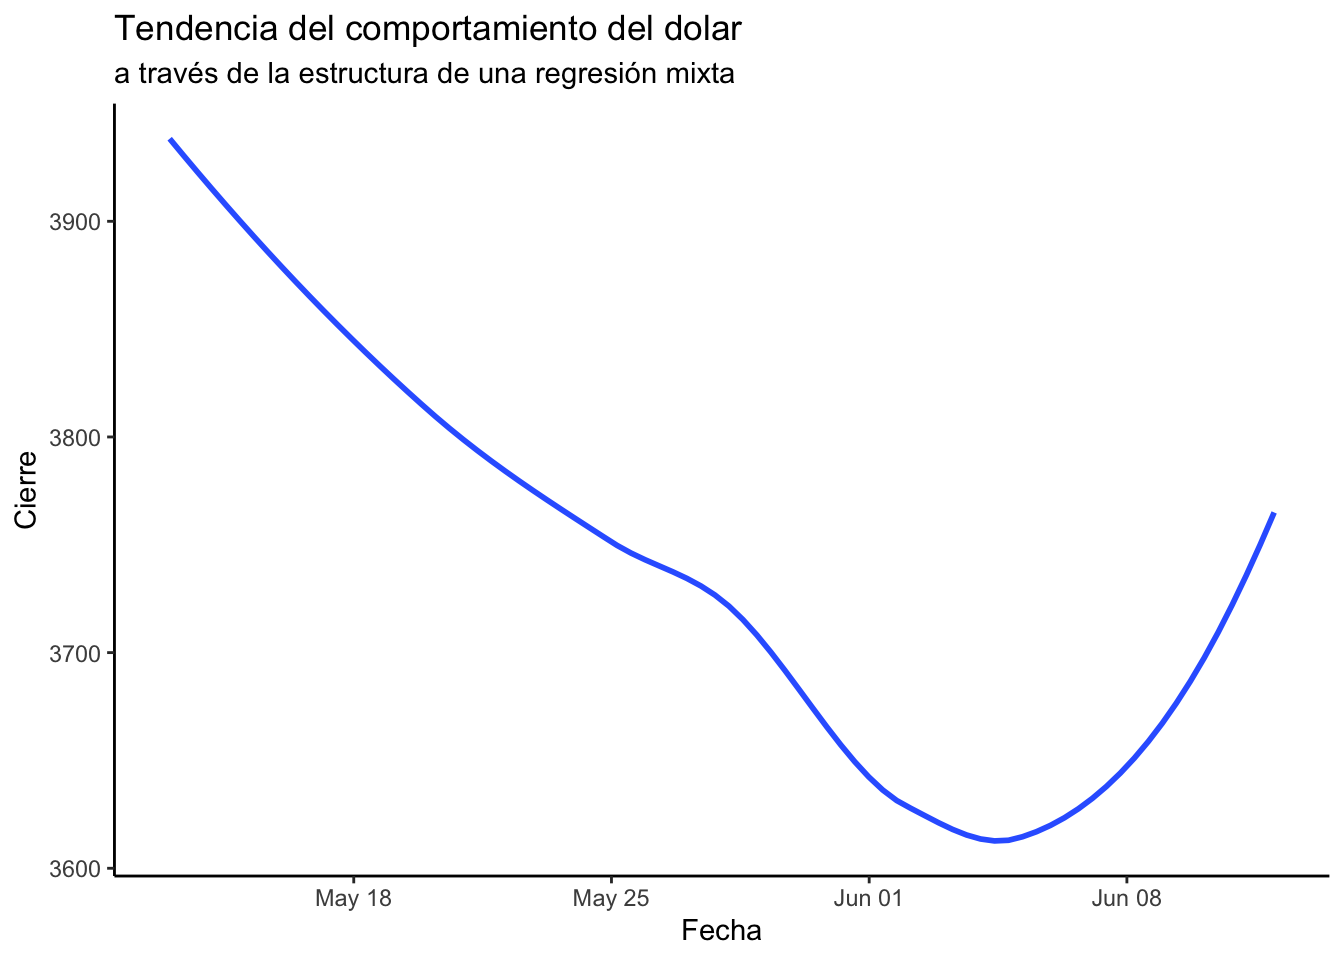
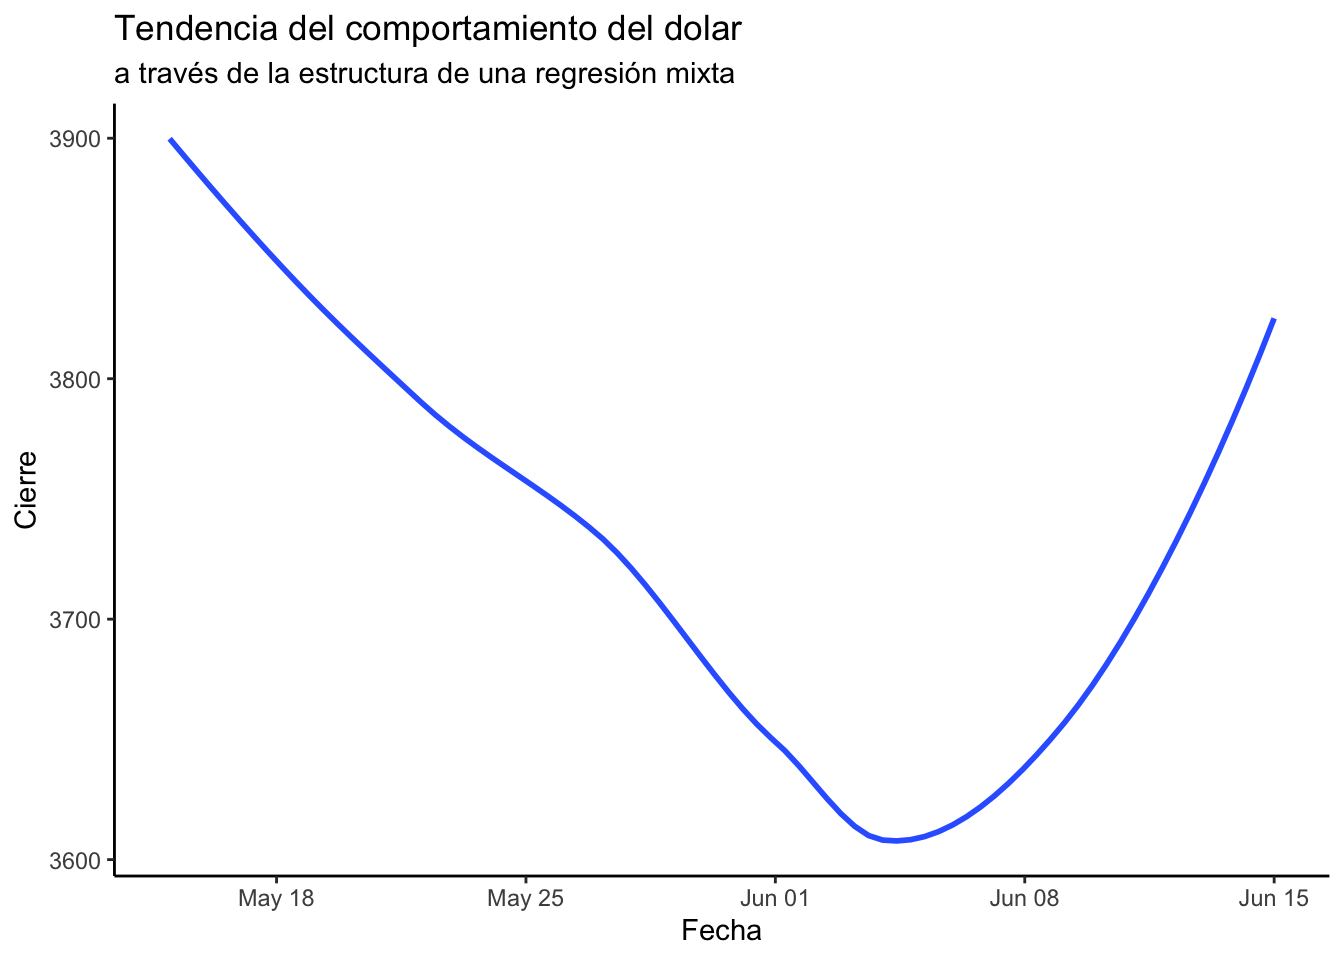
changes

diff --git a/content/post/2020-06-13-forecasting_webs.html b/content/post/2020-06-13-forecasting_webs.html
@@ -8,7 +8,7 @@ output: html_document
 
 <div id="introducción" class="section level2">
 <h2>Introducción</h2>
-<p>En esta oportunidad quiero trabajar con dos desarrollos muy interesantes a nivel de implementación, la primera tiene que ver con un web scraping, dado un proyecto en el cual estoy trabajando con una persona que admiro demasiado, el doctor <a href="https://www.linkedin.com/in/cospino/">Carlos Ospino</a> y por otro lado respondiendo a un reto, sobre trading financiero por parte de <a href="https://www.linkedin.com/in/daniel-alejandro-cordoba-pulido-6b9199103/">Daniel Cordoba</a>, el cual me a obligado a pensar fuera de la caja con una serie de metodologias. Por lo anterior el trabajo que hoy desarrollaré es intentar predecir el precio del dolar, con modelos de memoria corta.</p>
+<p>En esta oportunidad quiero trabajar con dos desarrollos muy interesantes a nivel de implementación, la primera tiene que ver con un web scraping, dado un proyecto en el cual estoy trabajando con una persona que admiro demasiado, el doctor <a href="https://www.linkedin.com/in/cospino/">Carlos Ospino</a> y por otro lado respondiendo a un reto, sobre trading financiero por parte de <a href="https://www.linkedin.com/in/daniel-alejandro-cordoba-pulido-6b9199103/">Daniel Cordoba</a>, el cual me a obligado a pensar fuera de la caja con una serie de metodologías. Por lo anterior el trabajo que hoy desarrollaré es intentar predecir el precio del dolar, con modelos de memoria corta.</p>
 <p>La fuente de datos es <a href="https://es.investing.com/currencies/usd-cop-historical-data">investing</a>, y la bibliografía que consulte para esta post es la siguiente:</p>
 <ul>
 <li><a href="https://otexts.com/fpp2/">Forecasting: Principles and Practices</a>, de Rob J Hyndman</li>
@@ -21,7 +21,7 @@ output: html_document
 <h2>EDA</h2>
 <div id="web-scraping" class="section level3">
 <h3>Web Scraping</h3>
-<p>hacer web scraping es un arte practicamente, hay que tener presente como esta el protocolo http, si es 200 se puede trabajar perfectamente, de lo contrario, tocaría hacer un par de cosas sobre el texto que intenta leer a nivel de tranformación <code>.html</code>. Si desea tener más información al respecto le recomiendo ver el siguiente <a href="https://en.wikipedia.org/wiki/List_of_HTTP_status_codes">link</a>, por otro lado, si desea integrar y mantener un deploy sobre esto, por experiencia le recomiendo trabajar con Flask, hace parte de las buenas prácticas.</p>
+<p>hacer web scraping es un arte prácticamente, hay que tener presente cómo esta el protocolo http, si es 200 se puede trabajar perfectamente, de lo contrario, tocaría hacer un par de cosas sobre el texto que intenta leer a nivel de transformación <code>.html</code>. Si desea tener más información al respecto le recomiendo ver el siguiente <a href="https://en.wikipedia.org/wiki/List_of_HTTP_status_codes">link</a>, por otro lado, si desea integrar y mantener un deploy sobre esto, por experiencia le recomiendo trabajar con Flask, hace parte de las buenas prácticas.</p>
 <p>Para revisar el <code>status code</code>, puede ejecutar el siguiente código</p>
 <pre class="r"><code>url&lt;-&quot;https://es.investing.com/currencies/usd-cop-historical-data&quot;
 url%&gt;%  
@@ -51,16 +51,16 @@ dolar_table&lt;-url%&gt;%
 <pre><code>## # A tibble: 23 x 6
 ##    Fecha      Último   Apertura Máximo   Mínimo   `% var.`
 ##    &lt;chr&gt;      &lt;chr&gt;    &lt;chr&gt;    &lt;chr&gt;    &lt;chr&gt;    &lt;chr&gt;   
-##  1 12.06.2020 3.778,50 3.773,00 3.782,33 3.736,96 0,23%   
-##  2 11.06.2020 3.769,89 3.673,50 3.775,51 3.668,50 2,67%   
-##  3 10.06.2020 3.672,00 3.657,50 3.691,50 3.643,00 0,49%   
-##  4 09.06.2020 3.654,16 3.609,99 3.666,24 3.603,82 1,26%   
-##  5 08.06.2020 3.608,61 3.573,20 3.613,26 3.564,00 0,99%   
-##  6 05.06.2020 3.573,20 3.588,50 3.592,37 3.542,06 -0,25%  
-##  7 04.06.2020 3.582,00 3.607,00 3.625,17 3.582,00 -0,69%  
-##  8 03.06.2020 3.607,00 3.636,44 3.647,75 3.562,29 -0,75%  
-##  9 02.06.2020 3.634,15 3.719,90 3.725,25 3.617,49 -2,23%  
-## 10 01.06.2020 3.716,90 3.730,00 3.734,00 3.702,84 -0,35%  
+##  1 15.06.2020 3.782,18 3.778,50 3.784,18 3.775,77 0,10%   
+##  2 14.06.2020 3.778,50 3.778,50 3.778,50 3.778,50 0,00%   
+##  3 12.06.2020 3.778,50 3.773,00 3.782,33 3.736,96 0,23%   
+##  4 11.06.2020 3.769,89 3.673,50 3.775,51 3.668,50 2,67%   
+##  5 10.06.2020 3.672,00 3.657,50 3.691,50 3.643,00 0,49%   
+##  6 09.06.2020 3.654,16 3.609,99 3.666,24 3.603,82 1,26%   
+##  7 08.06.2020 3.608,61 3.573,20 3.613,26 3.564,00 0,99%   
+##  8 05.06.2020 3.573,20 3.588,50 3.592,37 3.542,06 -0,25%  
+##  9 04.06.2020 3.582,00 3.607,00 3.625,17 3.582,00 -0,69%  
+## 10 03.06.2020 3.607,00 3.636,44 3.647,75 3.562,29 -0,75%  
 ## # … with 13 more rows</code></pre>
 <p>Bueno, hay que hacerle un par de modificaciones a la tabla para poder trabajar con ella.</p>
 <pre class="r"><code>Serie&lt;-dolar_table%&gt;%
@@ -80,16 +80,16 @@ Serie</code></pre>
 <pre><code>## # A tibble: 23 x 3
 ##    Fecha      Apertura Cierre
 ##    &lt;date&gt;        &lt;dbl&gt;  &lt;dbl&gt;
-##  1 2020-06-12    3773   3778.
-##  2 2020-06-11    3674.  3770.
-##  3 2020-06-10    3658.  3672 
-##  4 2020-06-09    3610.  3654.
-##  5 2020-06-08    3573.  3609.
-##  6 2020-06-05    3588.  3573.
-##  7 2020-06-04    3607   3582 
-##  8 2020-06-03    3636.  3607 
-##  9 2020-06-02    3720.  3634.
-## 10 2020-06-01    3730   3717.
+##  1 2020-06-15    3778.  3782.
+##  2 2020-06-14    3778.  3778.
+##  3 2020-06-12    3773   3778.
+##  4 2020-06-11    3674.  3770.
+##  5 2020-06-10    3658.  3672 
+##  6 2020-06-09    3610.  3654.
+##  7 2020-06-08    3573.  3609.
+##  8 2020-06-05    3588.  3573.
+##  9 2020-06-04    3607   3582 
+## 10 2020-06-03    3636.  3607 
 ## # … with 13 more rows</code></pre>
 <p>Para este análisis me basaré puntualmente en el cierre</p>
 <p><img src="/post/2020-06-13-forecasting_webs_files/figure-html/unnamed-chunk-5-1.png" width="672" /></p>
@@ -97,15 +97,15 @@ Serie</code></pre>
 </div>
 <div id="build-a-model" class="section level2">
 <h2>Build a model</h2>
-<p>El comportamiento del dolar ha sido bastante dinámico, por lo tanto trabajar con un modelo de memoría corta puede ser un camino correcto, aunque no estoy muy seguro que el mejor,pero veamos esto a través de los resultados.</p>
-<p>Lo primero que quiero evaluar es el tipo de comportamiento de los datos, a través de la tendencia. Lo más importante adestacar es que se trata de una regresión Loess o local<a href="#fn1" class="footnote-ref" id="fnref1"><sup>1</sup></a>, por lo cual entender los segmentos de tiempo será la clave de este asunto.</p>
+<p>El comportamiento del dólar ha sido bastante dinámico, por lo tanto trabajar con un modelo de memoria corta puede ser un camino correcto, aunque no estoy muy seguro que el mejor, pero veamos esto a través de los resultados.</p>
+<p>Lo primero que quiero evaluar es el tipo de comportamiento de los datos, a través de la tendencia. Lo más importante a destacar es que se trata de una regresión Loess o local<a href="#fn1" class="footnote-ref" id="fnref1"><sup>1</sup></a>, por lo cual entender los segmentos de tiempo será la clave de este asunto.</p>
 <pre class="r"><code>Serie%&gt;%
   ggplot(aes(Fecha,Cierre))+
   geom_smooth(se=FALSE)+
   labs(title = &#39;Tendencia del comportamiento del dolar&#39;,
        subtitle = &#39;a través de la estructura de una regresión mixta&#39;)</code></pre>
 <p><img src="/post/2020-06-13-forecasting_webs_files/figure-html/unnamed-chunk-6-1.png" width="672" /></p>
-<p>Me llama bastante la atención del mínimo local de $3.600, acá puede que exista un cambio de estructura de la información, pero también puede que exista una correlación escalonada con factores exógenos. Para entender mejor esto, voy a trabajar con algunas tranformaciones</p>
+<p>Me llama bastante la atención del mínimo local de $3.600, acá puede que exista un cambio de estructura de la información, pero también puede que exista una correlación escalonada con factores exógenos. Para entender mejor esto, voy a trabajar con algunas transformaciones</p>
 <p>Lo primero es convertir los datos en una serie de tiempo, paso seguido descomponer la serie a ver que insigths podemos extraer de los comportamientos individualizados y pot último es determinar que tipo de modelo aplicar. Todo lo anterior lo desarrollaré en un solo código.</p>
 <pre class="r"><code>Serie%&gt;%
   arrange(Fecha)%&gt;%
@@ -122,7 +122,7 @@ Serie</code></pre>
   ts()%&gt;%
   ggtsdisplay()</code></pre>
 <p><img src="/post/2020-06-13-forecasting_webs_files/figure-html/unnamed-chunk-8-1.png" width="672" /></p>
-<p>Increible los datos pierden potencia de correlación con su pasado, hay que ser cauto a la hora de tratar la serie, a demás todo parece indicar que existe un modelo AR (1), más tengo mis reservas aun, puede que se trate de un factor de integración simplemente y que realmente la serie tenga un comportamiento de caminata aleatoría por los cambios de nivel.</p>
+<p>Increíble los datos pierden potencia de correlación con su pasado, hay que ser cauto a la hora de tratar la serie, a demás todo parece indicar que existe un modelo AR (1), más tengo mis reservas aun, puede que se trate de un factor de integración simplemente y que realmente la serie tenga un comportamiento de caminata aleatoria por los cambios de nivel.</p>
 <p>Voy a trabajar con la serie diferenciada a ver si encuentro la tendencia que es lo que más llama mi atención</p>
 <pre class="r"><code>Serie%&gt;%
   arrange(Fecha)%&gt;%
@@ -140,13 +140,13 @@ Bueno, en efecto hay una tendencia bastante fuerte [-20,20], pero este efecto po
   ts()
   
 sarima(Serie_ts,p=0,d=1,q=0)</code></pre>
-<pre><code>## initial  value 3.673162 
-## iter   1 value 3.673162
-## final  value 3.673162 
+<pre><code>## initial  value 3.647767 
+## iter   1 value 3.647767
+## final  value 3.647767 
 ## converged
-## initial  value 3.673162 
-## iter   1 value 3.673162
-## final  value 3.673162 
+## initial  value 3.647767 
+## iter   1 value 3.647767
+## final  value 3.647767 
 ## converged</code></pre>
 <p><img src="/post/2020-06-13-forecasting_webs_files/figure-html/unnamed-chunk-10-1.png" width="672" /></p>
 <pre><code>## $fit
@@ -158,34 +158,34 @@ sarima(Serie_ts,p=0,d=1,q=0)</code></pre>
 ## 
 ## Coefficients:
 ##       constant
-##        -5.9777
-## s.e.    8.3951
+##        -5.8682
+## s.e.    8.1846
 ## 
-## sigma^2 estimated as 1550:  log likelihood = -112.03,  aic = 228.05
+## sigma^2 estimated as 1474:  log likelihood = -111.47,  aic = 226.94
 ## 
 ## $degrees_of_freedom
 ## [1] 21
 ## 
 ## $ttable
 ##          Estimate     SE t.value p.value
-## constant  -5.9777 8.3951 -0.7121  0.4843
+## constant  -5.8682 8.1846  -0.717  0.4813
 ## 
 ## $AIC
-## [1] 10.36602
+## [1] 10.31523
 ## 
 ## $AICc
-## [1] 10.37511
+## [1] 10.32432
 ## 
 ## $BIC
-## [1] 10.4652</code></pre>
+## [1] 10.41442</code></pre>
 <p>La evidencia indica que este es el modelo adecuado, los errores tiene un buen desempeño. Pero para concluirlo este es un modelo de Ruido Blanco</p>
-<p>Por lo tanto paso hacer el modelo para pronósticar.</p>
+<p>Por lo tanto paso hacer el modelo para pronosticar.</p>
 <p><img src="/post/2020-06-13-forecasting_webs_files/figure-html/unnamed-chunk-11-1.png" width="672" />
 El dolar el día 12 de Junio cerro en $3.776,50 y el modelo pronóstico $3.778,499</p>
 </div>
 <div id="explorando-resultados" class="section level2">
 <h2>Explorando resultados</h2>
-<p>Al principio sospeche que existia un AR(1), en el modelo, y la evidencia arroja que es un ARIMA (0,1,0), que es lo mismo que ruido, por lo tanto dada la predicción real del dolar evaluare que tan real es la idea del Autoregresivo.</p>
+<p>Al principio sospeche que existía un AR(1), en el modelo, y la evidencia arroja que es un ARIMA (0,1,0), que es lo mismo que ruido, por lo tanto dada la predicción real del dólar evaluare qué tan real es la idea del Autoregresivo.</p>
 <pre class="r"><code>trend &lt;- seq_along(Serie_ts)
 (fit1 &lt;- auto.arima(Serie_ts, d=0, xreg=trend))</code></pre>
 <pre><code>## Series: Serie_ts 
@@ -193,17 +193,17 @@ El dolar el día 12 de Junio cerro en $3.776,50 y el modelo pronóstico $3.778,4
 ## 
 ## Coefficients:
 ##          ar1  intercept     xreg
-##       0.8769  3870.7974  -7.4602
-## s.e.  0.0965    77.5559   5.0639
+##       0.9006  3853.2640  -6.0010
+## s.e.  0.0809    88.8008   5.1913
 ## 
-## sigma^2 estimated as 1663:  log likelihood=-117.05
-## AIC=242.09   AICc=244.32   BIC=246.64</code></pre>
+## sigma^2 estimated as 1595:  log likelihood=-116.67
+## AIC=241.33   AICc=243.56   BIC=245.88</code></pre>
 <pre class="r"><code>(fit2&lt;-auto.arima(Serie_ts,d=1))</code></pre>
 <pre><code>## Series: Serie_ts 
 ## ARIMA(0,1,0) 
 ## 
-## sigma^2 estimated as 1587:  log likelihood=-112.28
-## AIC=226.55   AICc=226.75   BIC=227.64</code></pre>
+## sigma^2 estimated as 1509:  log likelihood=-111.72
+## AIC=225.44   AICc=225.64   BIC=226.53</code></pre>
 <pre class="r"><code>fc1 &lt;- forecast(fit1,
   xreg = length(Serie_ts) + 1:4)
 fc2 &lt;- forecast(fit2, h=4)
@@ -217,7 +217,7 @@ autoplot(Serie_ts) +
 </div>
 <div id="una-apuesta-más" class="section level2">
 <h2>Una apuesta más</h2>
-<p>Dejo los datos del modelo determinístico para ver que tanto se ajustan los valores con la realidad.</p>
+<p>Dejo los datos del modelo determinístico para ver qué tanto se ajustan los valores con la realidad.</p>
 <table>
 <caption><span id="tab:unnamed-chunk-13">Table 1: </span>Dolar con el modelo determinístico</caption>
 <thead>
@@ -233,44 +233,44 @@ autoplot(Serie_ts) +
 <tbody>
 <tr class="odd">
 <td>24</td>
-<td align="right">3761.278</td>
-<td align="right">3709.022</td>
-<td align="right">3813.534</td>
-<td align="right">3681.359</td>
-<td align="right">3841.196</td>
+<td align="right">3769.523</td>
+<td align="right">3718.346</td>
+<td align="right">3820.699</td>
+<td align="right">3691.255</td>
+<td align="right">3847.791</td>
 </tr>
 <tr class="even">
 <td>25</td>
-<td align="right">3745.257</td>
-<td align="right">3675.757</td>
-<td align="right">3814.758</td>
-<td align="right">3638.966</td>
-<td align="right">3851.549</td>
+<td align="right">3757.527</td>
+<td align="right">3688.657</td>
+<td align="right">3826.397</td>
+<td align="right">3652.199</td>
+<td align="right">3862.855</td>
 </tr>
 <tr class="odd">
 <td>26</td>
-<td align="right">3730.291</td>
-<td align="right">3650.012</td>
-<td align="right">3810.570</td>
-<td align="right">3607.514</td>
-<td align="right">3853.068</td>
+<td align="right">3746.128</td>
+<td align="right">3665.718</td>
+<td align="right">3826.538</td>
+<td align="right">3623.151</td>
+<td align="right">3869.104</td>
 </tr>
 <tr class="even">
 <td>27</td>
-<td align="right">3716.249</td>
-<td align="right">3628.578</td>
-<td align="right">3803.920</td>
-<td align="right">3582.168</td>
-<td align="right">3850.330</td>
+<td align="right">3735.265</td>
+<td align="right">3646.592</td>
+<td align="right">3823.938</td>
+<td align="right">3599.652</td>
+<td align="right">3870.878</td>
 </tr>
 </tbody>
 </table>
 <p>Y acá dejo los valores de la predicción a través de una red neuronal</p>
 <pre><code>##    Point Forecast
-## 24       3751.677
-## 25       3734.499
-## 26       3715.287
-## 27       3700.280</code></pre>
+## 24       3769.136
+## 25       3759.042
+## 26       3751.080
+## 27       3744.709</code></pre>
 <p><img src="/post/2020-06-13-forecasting_webs_files/figure-html/unnamed-chunk-15-1.png" width="672" /></p>
 </div>
 <div class="footnotes">
